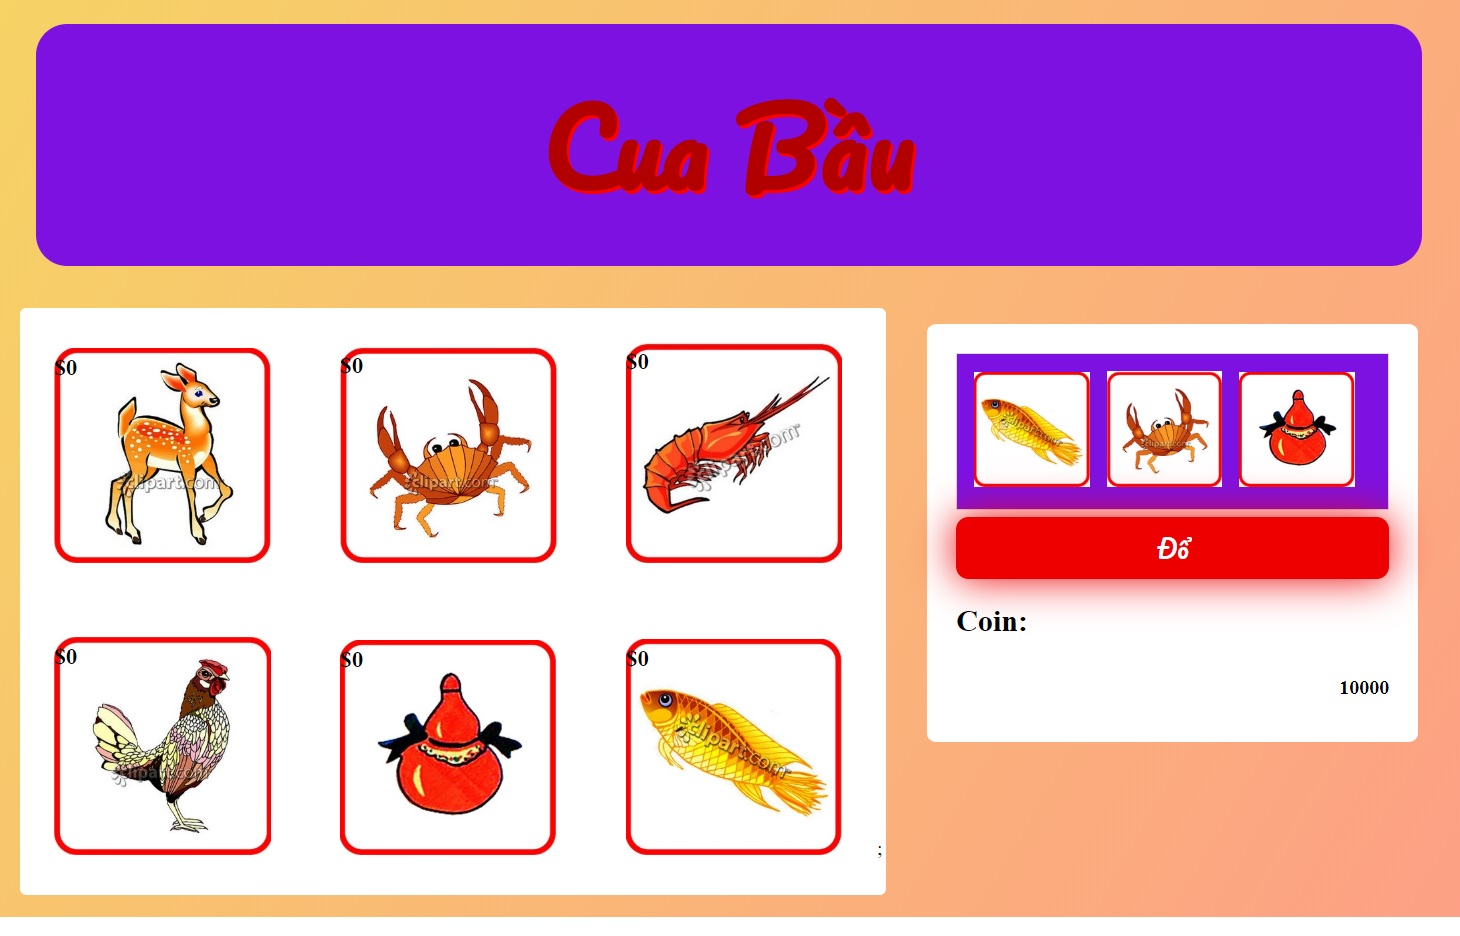
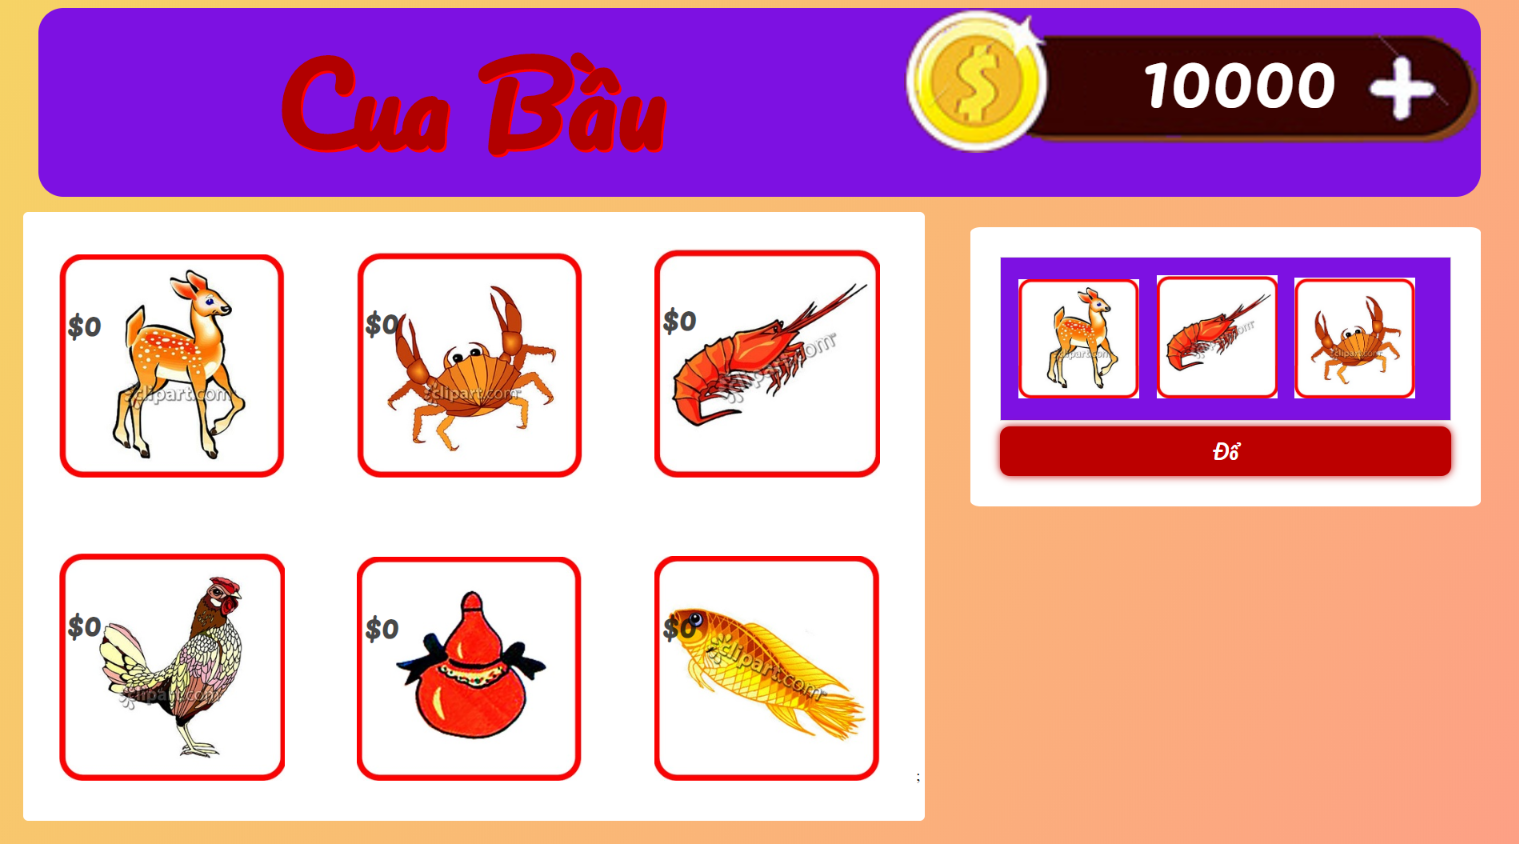
Readme file

diff --git a/src/Game.js b/src/Game.js
@@ -14,7 +14,7 @@ class Game extends React.Component {
     super(props);
     this.state = {
       isRaised: false,
-      coin: 1000,
+      coin: 10000,
       betStore: [0, 0, 0, 0, 0, 0],
       result: [],
       isGameover: false
